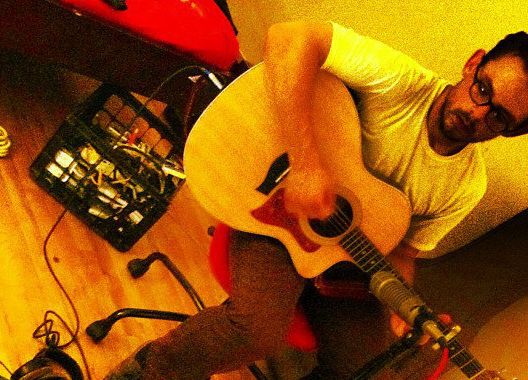
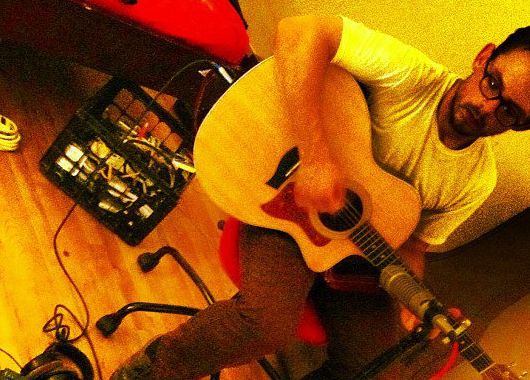
f

diff --git a/roster.html b/roster.html
@@ -21,7 +21,7 @@
   <!-- CSS -->
   <link rel="stylesheet" type="text/css" href="css/site_global.css?3813118786"/>
   <link rel="stylesheet" type="text/css" href="css/master_a-master.css?4194454076"/>
-  <link rel="stylesheet" type="text/css" href="css/roster.css?252144785" id="pagesheet"/>
+  <link rel="stylesheet" type="text/css" href="css/roster.css?3946541636" id="pagesheet"/>
   <!-- Other scripts -->
   <script type="text/javascript">
    document.documentElement.className += ' js';
@@ -111,7 +111,7 @@ var __adobewebfontsappname__ = "muse";
       <img class="block" id="u7521_img" src="images/img_0449-crop-u7521.png" data-hidpi-src="images/img_0449-crop-u7521_2x.png" alt="" width="265" height="190"/>
      </div>
      <div class="shadow clip_frame grpelem" id="u7536"><!-- image -->
-      <img class="block" id="u7536_img" src="images/carl%20creighton%20artist%20pic-crop-u7536.png" data-hidpi-src="images/carl%20creighton%20artist%20pic-crop-u7536_2x.png" alt="" width="264" height="190"/>
+      <img class="block" id="u7536_img" src="images/carl%20creighton%20artist%20pic-crop-u7536.png" data-hidpi-src="images/carl%20creighton%20artist%20pic-crop-u7536_2x.png" alt="" width="265" height="190"/>
      </div>
     </div>
     <div class="clearfix colelem" id="pu7520-4"><!-- group -->

diff --git a/css/roster.css b/css/roster.css
@@ -1,7 +1,7 @@
 .version.roster /* version checker */
 {
-	color: #00000F;
-	background-color: #076C91;
+	color: #0000EB;
+	background-color: #3B7244;
 }
 
 .html
@@ -533,11 +533,6 @@
 	position: relative;
 	margin-right: -10000px;
 	left: 600px;
-}
-
-#u7536_img
-{
-	padding-right: 1px;
 }
 
 #pu7520-4
